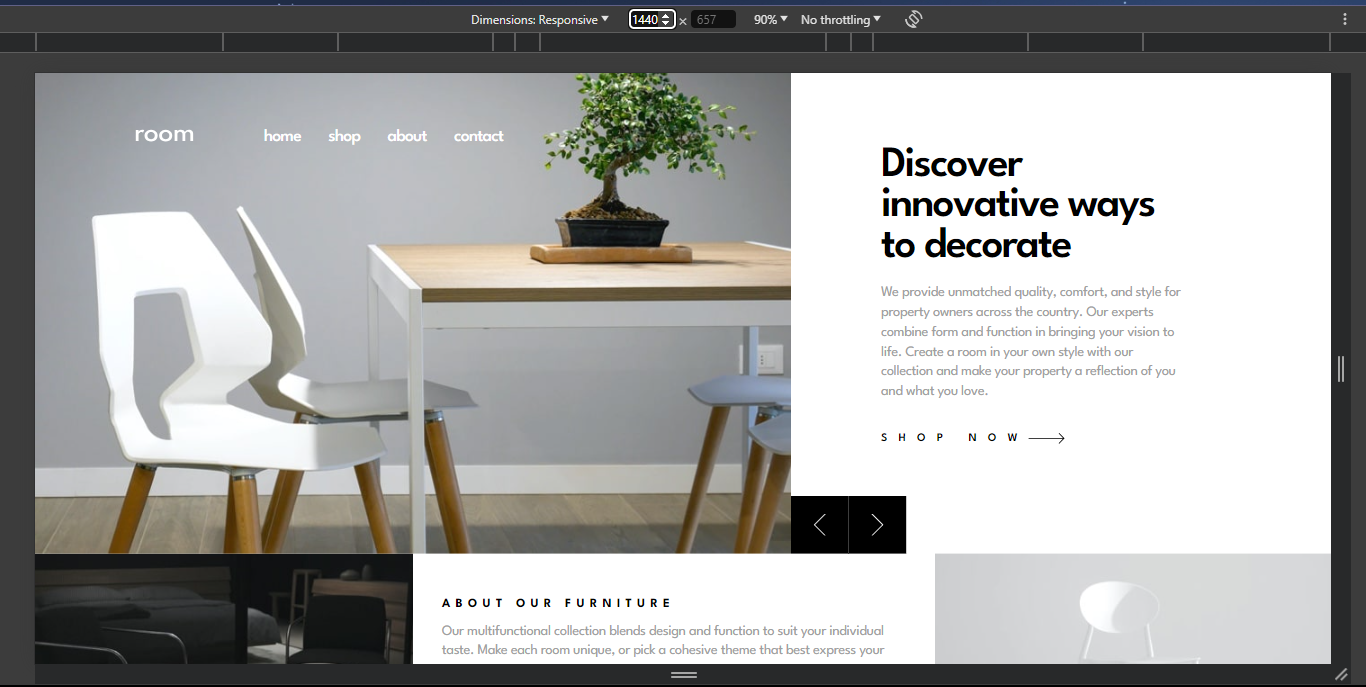
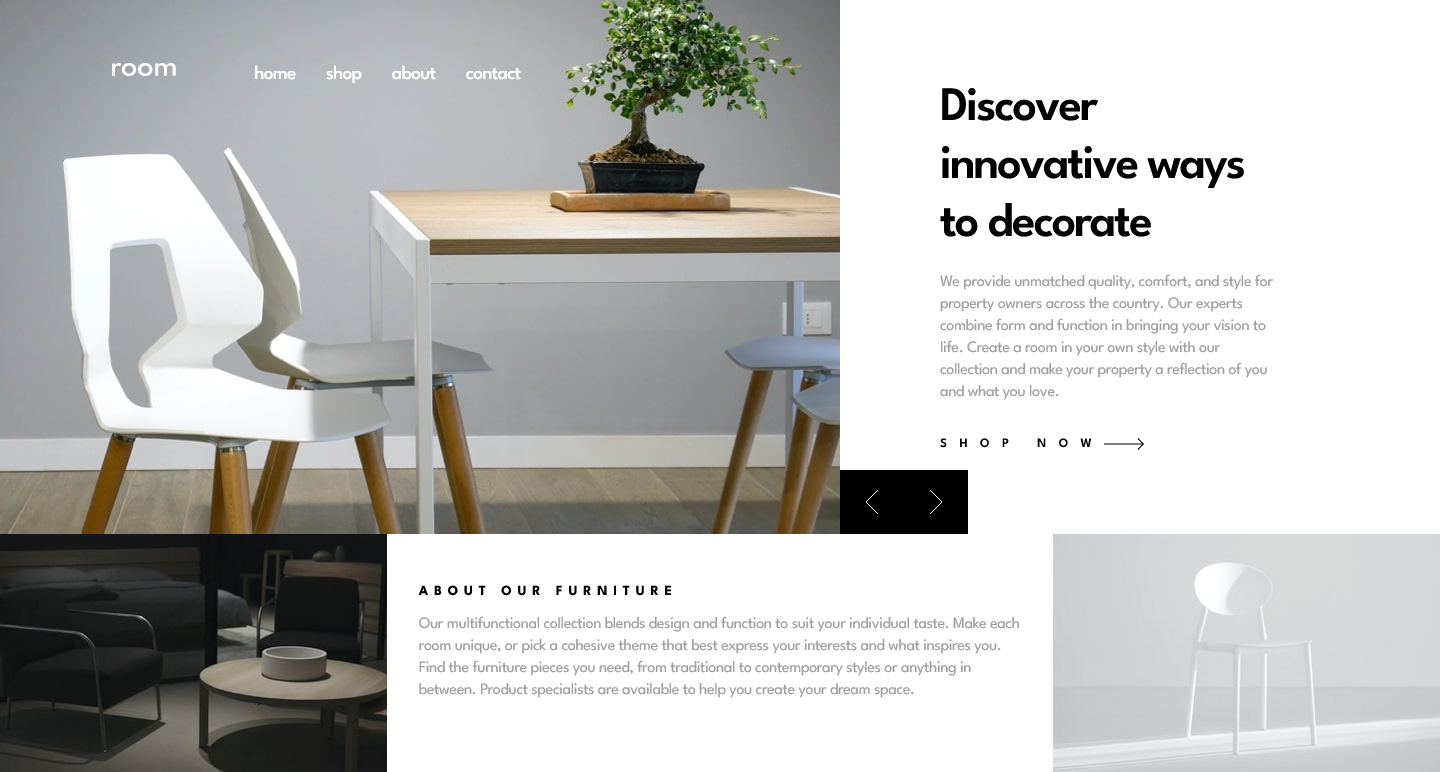
Final changes to projec

diff --git a/src/components/features/Features.styles.ts b/src/components/features/Features.styles.ts
@@ -8,7 +8,7 @@ const FeatWrapper = styled.section`
     padding: 3.75em 2em 4.5em 2em;
     position: relative;
 
-    @media only screen and (min-width: 1440px) {
+    @media only screen and (1366px <= width <= 1440px) {
         padding: 5em 6.25em 9.56em 6.25em;
     }
 
@@ -21,7 +21,7 @@ const FeatHeader = styled.h1`
     letter-spacing:-1.67px;
     margin-bottom: 0.4em;
 
-    @media only screen and (min-width: 1440px) {
+    @media only screen and (1366px <= width <= 1440px) {
         font-size: 3rem;
         letter-spacing: -2px;
         
@@ -33,7 +33,7 @@ const FeatContent = styled.p`
     letter-spacing: -0.67px;
     line-height: 1.37rem;
 
-    @media only screen and (min-width: 1440px) {
+    @media only screen and (1366px <= width <= 1440px) {
         font-size: 1rem;
         letter-spacing: -0.33px;
     }
@@ -45,37 +45,50 @@ const FeatButton = styled.button<Props>`
     line-height: ${(props) => (props.variant ? '' : '1rem')};
     letter-spacing: ${(props) => (props.variant ? '' : '12.5px')};
     text-transform: uppercase;
-    font-weight: 600;
-    font-size: 0.8rem;
+    font-weight: bold;
+    font-size: 0.9rem;
     margin-top: ${(props) => (props.variant ? '' : '2.56em')};
     display: flex;
     align-items: center;
 
 
     & > svg {
-        margin-left: 1.25em;
+        margin-left: 1.5em;
     }
 
     & > svg > path:hover:active {
             fill: #A0A0A0;
+            transition: 0.3s ease-in-out;
         }
 
-    &:hover:active {
-        color: #A0A0A0;
+    & > span {
+        margin-right: auto;
     }
 
-    @media only screen and (min-width: 1440px) {
+    & > span:hover {
+        color: #A0A0A0;
+        transition: 0.3s ease-in-out;
+    }
+
+    & > span:active {
+        color: #A0A0A0;
+        transition: 0.3s ease-in-out;
+    }
+
+    @media only screen and (1366px <= width <= 1440px) {
         width: ${(props) => (props.variant ? '5em' : '')};
         height: ${(props) => (props.variant ? '5em' : '')};
-        
+
         &:hover {
-            background-color: #444444;
+            background-color: ${(props) => (props.variant ? '#444444' : 'transparent')};;
+            transition: 0.3s ease-in-out;
         }
 
         &:active {
-            background-color: #444444;
+            background-color: ${(props) => (props.variant ? '#444444' : 'transparent')};;
+            transition: 0.3s ease-in-out;
         }
-
+        
         & > svg {
         margin: 0 auto;
     }
@@ -88,10 +101,10 @@ const FeatButton = styled.button<Props>`
 const FeatNav = styled.nav`
     display: none;
     position: absolute;
-    top: 29.4em;
+    top: 28.85em;
     left: 0;
 
-    @media only screen and (min-width: 1440px) {
+    @media only screen and (1366px <= width <= 1440px) {
         display: flex;
     }
 `

diff --git a/src/components/navbar/Navbar.styles.ts b/src/components/navbar/Navbar.styles.ts
@@ -10,7 +10,7 @@ const NavDesk = styled.nav`
     position: absolute;
 
 
-    @media only screen and (min-width: 1440px) {
+    @media only screen and (1366px <= width <= 1440px) {
         display: flex;
         align-tems: center;
     }
@@ -22,7 +22,7 @@ const Nav = styled.nav`
     margin: 3em 1.5em;
     position: absolute;
 
-    @media only screen and (min-width: 1440px) {
+    @media only screen and (1366px <= width <= 1440px) {
         display: none;
     }
 `
@@ -32,7 +32,7 @@ const NavMenuButton = styled.button`
     border: none;
     cursor: pointer;
 
-    @media only screen and (min-width: 1440px) {
+    @media only screen and (1366px <= width <= 1440px) {
         display: none;
     }
 `
@@ -42,7 +42,7 @@ const NavLogo = styled.img`
     height: 0.9em;
     cursor: pointer;
 
-    @media only screen and (min-width: 1440px) {
+    @media only screen and (1366px <= width <= 1440px) {
         margin-left: 0;
         margin-right: 3em;
     }
@@ -64,7 +64,7 @@ const Navmenu = styled.nav<Props>`
     transition: ease-out 0.5s;
 
 
-    @media only screen and (min-width: 1440px) {
+    @media only screen and (1366px <= width <= 1440px) {
         display: none;
     }
 `
@@ -92,7 +92,7 @@ const Navlink = styled.a`
         color: #666;
     }
 
-    @media only screen and (min-width: 1440px) {
+    @media only screen and (1366px <= width <= 1440px) {
         color: #fff;
         font-size: 1.2rem;
 

diff --git a/src/components/hero/HeroSection.styles.ts b/src/components/hero/HeroSection.styles.ts
@@ -4,7 +4,7 @@ const HeroContainer = styled.section`
     position: relative;
 
     
-    @media only screen and (min-width: 1440px) {
+    @media only screen and (1366px <= width <= 1440px) {
         display: none;
     }
 `
@@ -14,7 +14,7 @@ const HeroWrapper = styled.div`
 const HeroDesktop = styled.section`
     display: none;
 
-    @media only screen and (min-width: 1440px) {
+    @media only screen and (1366px <= width <= 1440px) {
         display: flex;
         width: 100%;
     }
@@ -41,6 +41,7 @@ const HeroButton = styled.button`
 
     &:hover {
         background-color: #444444;
+        transition: 0.3s ease-in-out;
     }
 
     &:active {

diff --git a/src/components/features/Features.tsx b/src/components/features/Features.tsx
@@ -14,7 +14,7 @@ const Feature: React.FC<FeatProps> = (props: FeatProps) => {
         <S.FeatHeader>{props.heading}</S.FeatHeader>
         <S.FeatContent>{props.description}</S.FeatContent>
         <S.FeatButton>
-            Shop Now
+            <span>Shop Now</span>
             <svg width="40" height="12" xmlns="http://www.w3.org/2000/svg">
                 <path d="M34.05 0l5.481 5.527h.008v.008L40 6l-.461.465v.063l-.062-.001L34.049 12l-.662-.668 4.765-4.805H0v-1h38.206l-4.82-4.86L34.05 0z" fill="#000" fill-rule="nonzero"/>
             </svg>

diff --git a/src/Styles/GlobalStyles.ts b/src/Styles/GlobalStyles.ts
@@ -10,8 +10,9 @@ const GlobalStyle = createGlobalStyle`
     body {
         font-family: 'League Spartan', sans-serif;
         width: 23.44em;
+        overflow-x: hidden;
 
-        @media (min-width: 1440px) {
+        @media (1366px <= width <= 1440px) {
             width: 100%;
         }
     }

diff --git a/src/App.styles.ts b/src/App.styles.ts
@@ -1,7 +1,7 @@
 import styled from 'styled-components'
 
 const Wrapper = styled.div`
-      @media only screen and (min-width: 1440px) {
+      @media only screen and (1366px <= width <= 1440px) {
         display: grid;
         grid-template-rows: 534px;
         grid-template-columns: 840px 534px;

diff --git a/src/components/about/About.styles.ts b/src/components/about/About.styles.ts
@@ -4,7 +4,7 @@ const AboutWrapper = styled.section`
     display: flex;
     flex-direction: column;
 
-    @media only screen and (min-width: 1440px) {
+    @media only screen and (1366px <= width <= 1440px) {
         flex-direction: row;
     }
 `

diff --git a/README.md b/README.md
@@ -41,7 +41,7 @@ Users should be able to:
 
 #### Desktop View
 
-![](./src/website_images/desktop-full.png)
+![](./src/website_images/desktop_view.png)
 
 
 ### Links
